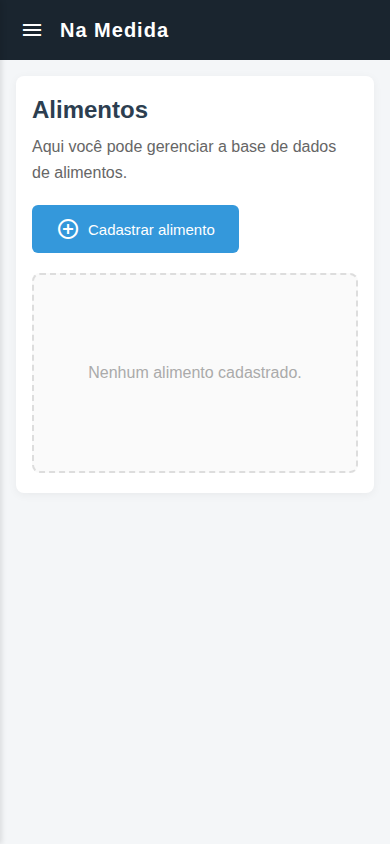
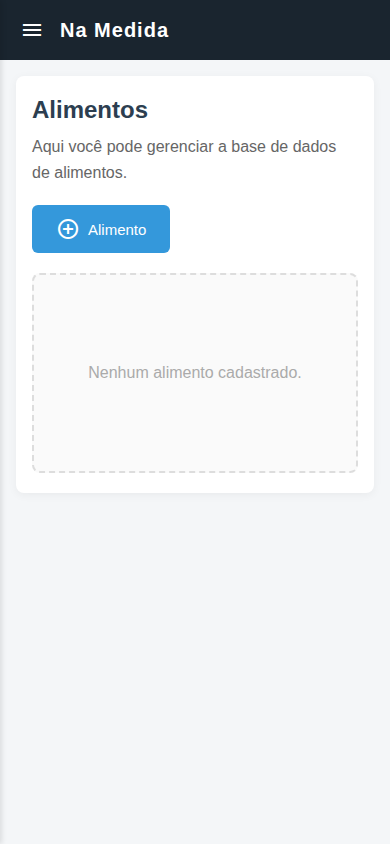
Corrige nome acessível do botão de cadastro

Changed region(s): [[0.2154, 0.2156, 0.6154, 0.3081]]

diff --git a/fonte/pages/Alimentos.svelte b/fonte/pages/Alimentos.svelte
@@ -21,9 +21,9 @@
 <section id="alimentos" class="page-section active">
   <h1>Alimentos</h1>
   <p>Aqui você pode gerenciar a base de dados de alimentos.</p>
-  <button class="btn-cadastrar" onclick={onCadastrar}>
+  <button class="btn-cadastrar" aria-label="Cadastrar alimento" onclick={onCadastrar}>
     <span class="material-symbols-outlined">add_circle</span>
-    <span>Cadastrar alimento</span>
+    <span>Alimento</span>
   </button>
 
   <div class="lista-alimentos">
